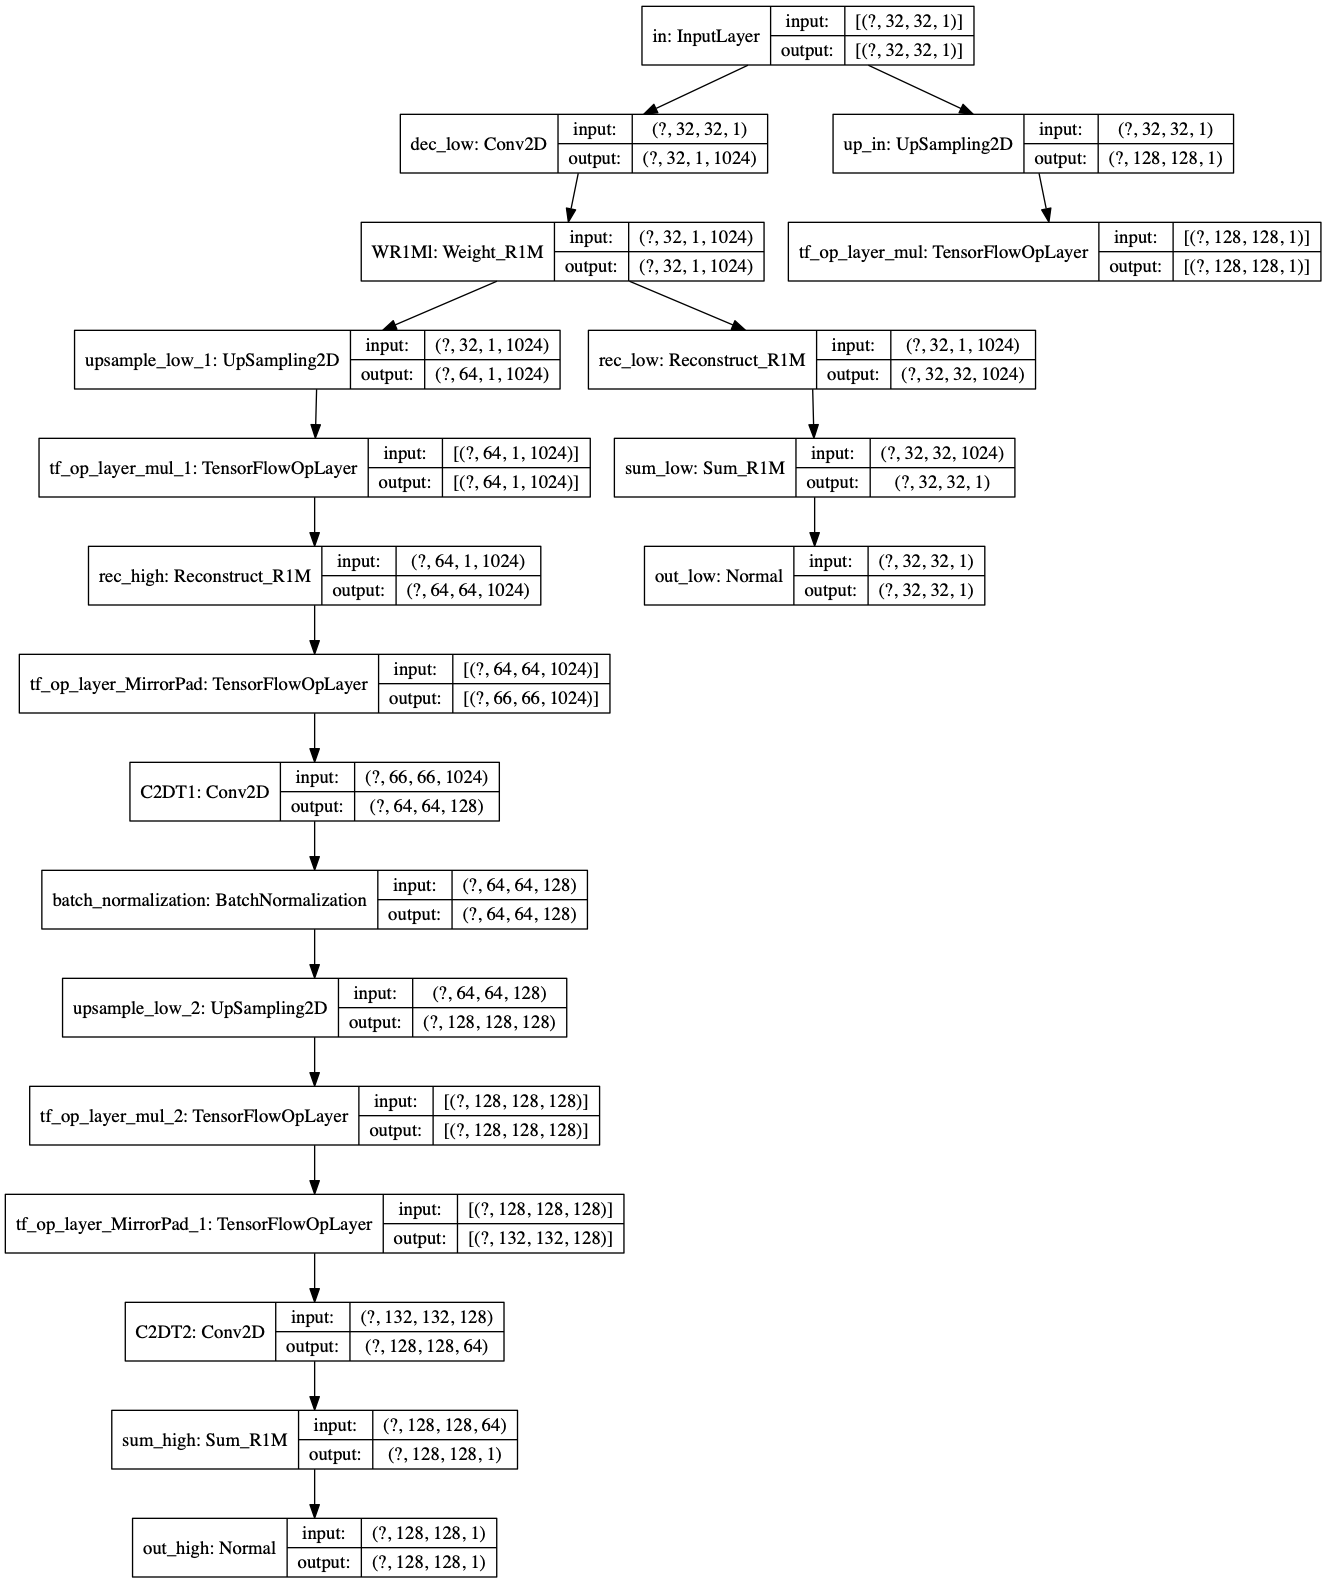
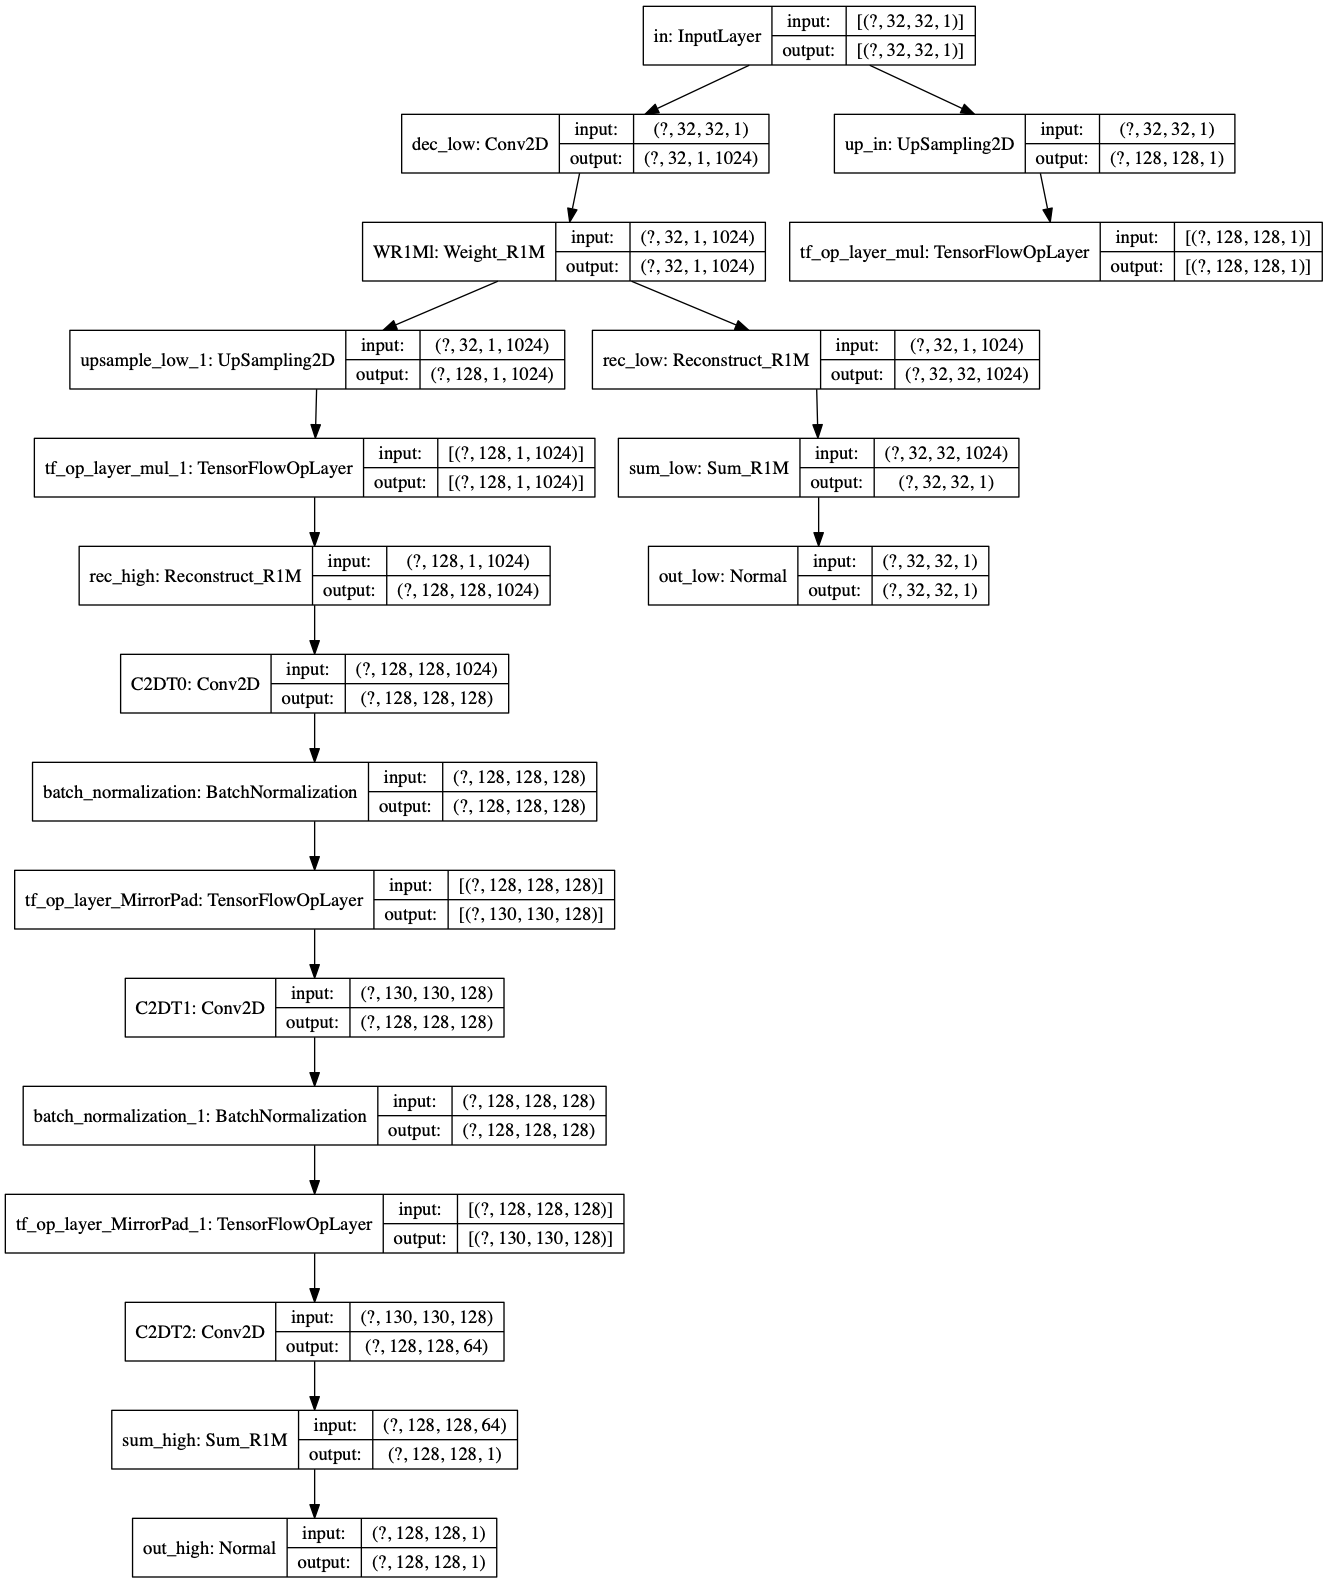
update

diff --git a/model.py b/model.py
@@ -105,36 +105,31 @@ def make_generator_model(len_low_size=16, scale=4):
     m_F = tf.constant(1/16.0, shape=(1, 1, 1, 1))
     up_o = tf.keras.layers.Multiply(name='scale_value_in')([up_o, m_F])
 
-    up_1 = tf.keras.layers.UpSampling2D(size=(2, 1), data_format='channels_last', name='upsample_low_1')(WeiR1Ml)
-    m_F = tf.constant(1/2.0, shape=(1, 1, 1, 1))
+    up_1 = tf.keras.layers.UpSampling2D(size=(4, 1), data_format='channels_last', name='upsample_low_1')(WeiR1Ml)
+    m_F = tf.constant(1/4.0, shape=(1, 1, 1, 1))
     up_1 = tf.keras.layers.Multiply(name='scale_value_high')([up_1, m_F])
     Rech = Reconstruct_R1M(1024, name='rec_high')(up_1)
-    '''trans_1 = tf.keras.layers.Conv2DTranspose(256, 5, strides=2,kernel_constraint=symmetry_constraints(), 
-                                                activation='relu', use_bias=False, name='C2DT1',
-                                            padding='same')(Rech)
-    batchnorm_1 = tf.keras.layers.BatchNormalization()(trans_1)
-    trans_2 = tf.keras.layers.Conv2DTranspose(64, 5, strides=2,kernel_constraint=symmetry_constraints(), 
-                                                activation='relu', use_bias=False, name='C2DT2',
-                                            padding='same')(batchnorm_1)'''
+    trans_0 = tf.keras.layers.Conv2D(filters=128, kernel_size=(1,1),
+                                    strides=(1,1), padding='valid',
+                                    data_format="channels_last",
+                                    kernel_constraint=symmetry_constraints(), 
+                                    activation='relu', use_bias=False, name='C2DT0')(Rech)
+    batchnorm_0 = tf.keras.layers.BatchNormalization()(trans_0)
     paddings = tf.constant([[0,0],[1, 1], [1, 1], [0,0]])
-    Rech = tf.pad(Rech, paddings, "SYMMETRIC")
-    trans_1 = tf.keras.layers.Conv2D(  filters=128, kernel_size=(3,3),
-                                                strides=(1,1), padding='valid',
-                                                data_format="channels_last",
-                                                kernel_constraint=symmetry_constraints(), 
-                                                activation='relu', use_bias=False, name='C2DT1')(Rech)
+    batchnorm_0 = tf.pad(batchnorm_0, paddings, "SYMMETRIC")
+    trans_1 = tf.keras.layers.Conv2D(filters=128, kernel_size=(3,3),
+                                    strides=(1,1), padding='valid',
+                                    data_format="channels_last",
+                                    kernel_constraint=symmetry_constraints(), 
+                                    activation='relu', use_bias=False, name='C2DT1')(batchnorm_0)
     batchnorm_1 = tf.keras.layers.BatchNormalization()(trans_1)
-    up_2 = tf.keras.layers.UpSampling2D(size=(2, 2), data_format='channels_last', name='upsample_low_2')(batchnorm_1)
-    m_F = tf.constant(1/4.0, shape=(1, 1, 1, 1))
-    up_2 = tf.keras.layers.Multiply(name='scale_value_high')([up_2, m_F])
-    paddings = tf.constant([[0,0],[2, 2], [2, 2], [0,0]])
-    batchnorm_1 = tf.pad(up_2, paddings, "SYMMETRIC")
-    trans_2 = tf.keras.layers.Conv2D(  filters=64, kernel_size=(5,5),
-                                                strides=(1,1), padding='valid',
-                                                data_format="channels_last",
-                                                kernel_constraint=symmetry_constraints(),
-                                                activation='relu', use_bias=False, name='C2DT2')(batchnorm_1)
-    
+    paddings = tf.constant([[0,0],[1, 1], [1, 1], [0,0]])
+    batchnorm_1 = tf.pad(batchnorm_1, paddings, "SYMMETRIC")
+    trans_2 = tf.keras.layers.Conv2D(filters=64, kernel_size=(3,3),
+                                    strides=(1,1), padding='valid',
+                                    data_format="channels_last",
+                                    kernel_constraint=symmetry_constraints(),
+                                    activation='relu', use_bias=False, name='C2DT2')(batchnorm_1)
     Sumh = Sum_R1M(name='sum_high')(trans_2)
     high_out = Normal(int(len_low_size*scale), name='out_high')(Sumh)
 
